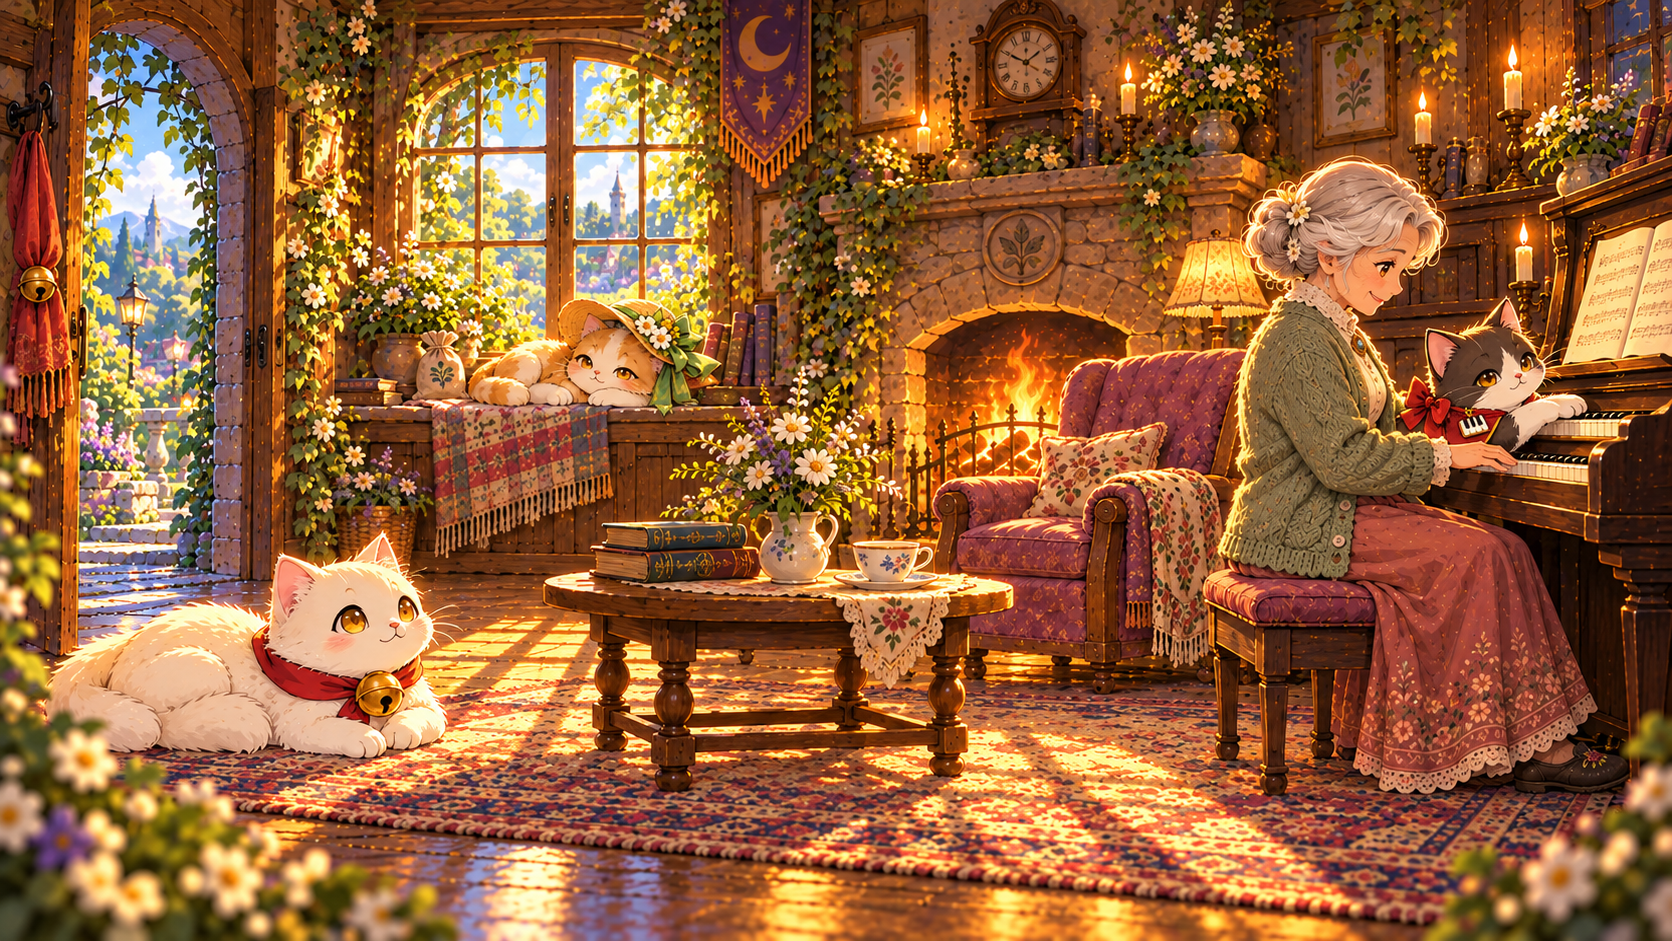
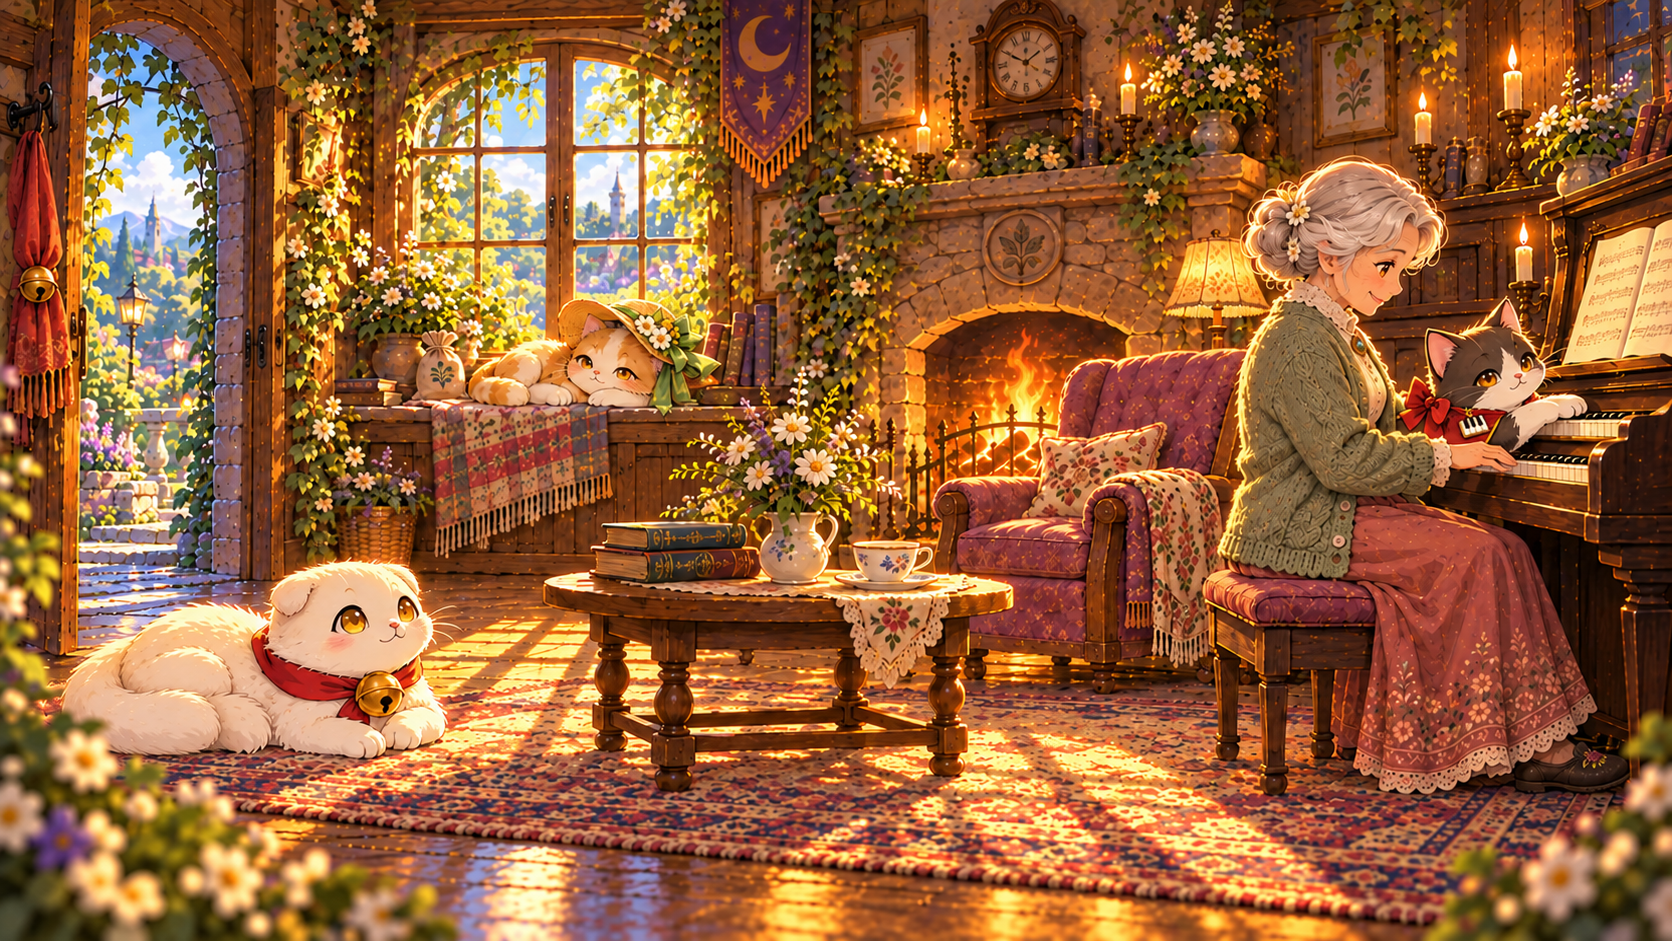
Correct Bosong folded ears and single tail anatomy

Changed region(s): [[0.0, 0.0, 0.9641, 0.9245], [0.8397, 0.0308, 1.0, 0.5239], [0.9641, 0.3082, 0.9952, 0.339]]

diff --git a/kkamang/ui/illustration.py b/kkamang/ui/illustration.py
@@ -82,7 +82,7 @@ def cat_frame(size=100, direction='down', phase=0, mood='idle', scarf='default',
     return sprite_frame(int(size), direction, is_walking, index)
 
 @lru_cache(maxsize=2048)
-def _resident_cat_frame(size=100, direction='down', phase=0, mood='idle', scarf='default', palette=None, *, walking=None):
+def _resident_cat_frame(size=100, direction='down', phase=0, mood='idle', scarf='default', palette=None, *, walking=None, folded_ears=False):
     # Living residents keep their coats independently of Kkamang's PNG atlas.
     fur,light,belly,eye_color,rear = palette or (FUR,LIGHT,(88,79,95),GOLD,INK)
     s=pygame.Surface((160,180),pygame.SRCALPHA)
@@ -106,12 +106,19 @@ def _resident_cat_frame(size=100, direction='down', phase=0, mood='idle', scarf=
     else:offset=0
     # Ears and head, same proportions across portraits and field sprites.
     hx=offset; hy=-bob
-    pygame.draw.polygon(s,INK,[(29+hx,63+hy),(28+hx,13+hy),(64+hx,34+hy)])
-    pygame.draw.polygon(s,INK,[(94+hx,34+hy),(133+hx,13+hy),(130+hx,66+hy)])
-    pygame.draw.polygon(s,ROSE,[(36+hx,43+hy),(36+hx,24+hy),(56+hx,37+hy)])
-    pygame.draw.polygon(s,ROSE,[(104+hx,37+hy),(125+hx,24+hy),(122+hx,48+hy)])
+    if not folded_ears:
+        pygame.draw.polygon(s,INK,[(29+hx,63+hy),(28+hx,13+hy),(64+hx,34+hy)])
+        pygame.draw.polygon(s,INK,[(94+hx,34+hy),(133+hx,13+hy),(130+hx,66+hy)])
+        pygame.draw.polygon(s,ROSE,[(36+hx,43+hy),(36+hx,24+hy),(56+hx,37+hy)])
+        pygame.draw.polygon(s,ROSE,[(104+hx,37+hy),(125+hx,24+hy),(122+hx,48+hy)])
     pygame.draw.ellipse(s,INK,(21+hx,29+hy,118,86));pygame.draw.ellipse(s,fur,(25+hx,31+hy,110,79))
     pygame.draw.arc(s,light,(39+hx,35+hy,79,55),.3,2.9,3)
+    if folded_ears:
+        # Bosong's two soft ear flaps lie forward over the crown.
+        for x in (26,99):
+            pygame.draw.ellipse(s,INK,(x+hx,32+hy,36,29))
+            pygame.draw.ellipse(s,fur,(x+3+hx,33+hy,30,25))
+            pygame.draw.arc(s,light,(x+7+hx,36+hy,23,18),math.pi,math.tau,2)
     if direction!='up':
         eyes=[(56+hx,70+hy),(103+hx,70+hy)]
         if direction=='left':eyes=[(43+hx,70+hy),(83+hx,70+hy)]
@@ -165,7 +172,7 @@ def resident_cat(surface, center, size=80, time=0., variant=0):
         ((161,153,184),(193,182,210),(222,208,222),(124,104,160),(122,113,145)),
     ]
     scarf=('peach','default','lavender')[variant]
-    im=_resident_cat_frame(160,'down',int(time*3)%8,'happy',scarf,palettes[variant]).copy()
+    im=_resident_cat_frame(160,'down',int(time*3)%8,'happy',scarf,palettes[variant],folded_ears=variant==0).copy()
     d=pygame.draw
     if variant==0:
         # Bosong's soft white tufts and peach scarf.

diff --git a/docs/VALIDATION.md b/docs/VALIDATION.md
@@ -1,5 +1,18 @@
 # v0.2 실제 검증 결과
 
+## 2026-10-19 · 귀·꼬리 원화 v3 / main c89d8d7 통합 결과
+
+최신 `main`의 `c89d8d7`에 보송 귀·꼬리 정밀 편집 원화 v3를 통합했습니다. 로컬 전체 자동 검사 **453개와 하위 사례 137개**를 **26.25초**에 통과했으며, 최신 참조 경로 재생 **36/36**, 레벨 해시 **12/12**, JSON 스키마 **12/12**도 통과했습니다. 아래 450개·`ac043a6` 결과와 이전 검증은 각 시점의 역사 기록으로 보존합니다.
+
+- **정밀 편집과 원본 보존:** 내장 이미지 생성 도구로 세 그림을 국소 편집했습니다. `assets/art/memories/generation_prompts-anatomy-v3.json`에 도구·대상·제약·그림별 프롬프트를 기록했습니다. 생성 도구가 반환한 PNG와 최종 `memory_01.png`~`memory_03.png` 자산의 SHA-256이 모두 일치합니다.
+- **보송 귀와 꼬리의 독립 시각 검토:** 세 그림에서 보송의 귀 전체가 머리 앞쪽으로 낮게 접히는지 확인했습니다. 첫 그림은 중복 꼬리를 없애 한 가닥으로, 두 번째는 꼬리와 뒷발을 구분하도록 교정했습니다. 세 번째는 각 고양이의 기존 꼬리 한 가닥씩을 유지했습니다. 이파리·도레의 귀와 캐릭터 식별 장식은 보존했습니다.
+- **같은 구도와 공개 정보 순서:** 원화의 인물·소품 배치와 기존 마스크를 유지한 상태로 0/4~4/4의 누적 공개 화면 15개를 검증했습니다. 이전 공개 픽셀·불투명 가림막·마지막 얼굴과 유령화·상부 온기 이탈의 정보 순서를 확인했습니다. 과거에 까망이를 넣지 않고 진엔딩 뒤에도 폭풍 원본을 유지합니다.
+- **현재 장면과 PNG API:** `resident_cat`의 흰색 보송인 `variant=0`만 접힌 귀로 맞췄습니다. 다른 주민과 기본 PNG 고양이·유령 API를 보존했으며, 저장·기억 영역·엔딩 조건은 원화 교정으로 변경하지 않았습니다.
+- **최종 앱 화면과 실행:** 실제 `GameApp`의 800×450 앨범·기억 세 장·해방·진엔딩·7번 방·로비를 확인했습니다. 홈 ESC의 저장 후 타이틀 복귀를 앱 명령으로 검사하고 5프레임 CLI 실행도 통과했습니다. 첫째·셋째 앨범과 진엔딩 이미지를 직접 확인했으며, 별도 앨범 산출물은 대화 작업공간의 `outputs/memory-anatomy-v3/album_1.png`~`album_3.png`에 남겼습니다.
+- **최신 main 판정과 화면 동작:** 자석은 최신 규칙대로 +1 온기만 끌어오며 +3 온기를 원격 수집하지 않습니다. 로비의 앉은 고양이 PNG와 ESC 저장 후 타이틀 복귀 동작을 유지했습니다. 최신 참조 행동열·추적 상태·메타데이터를 보존하고 현재 레벨 해시만 연결했습니다. 스토리 표시 필드 이외 레벨 맵·좌표·판정은 해당 `main`과 동일합니다.
+
+원격 CI는 마지막 커밋의 실행 결과에서 별도로 확인합니다. 실제 사람 플레이·실기기 확인·실행 파일 빌드·오디오 청취는 실시하지 않았습니다.
+
 ## 2026-10-19 · 스타일 v2 / main ac043a6 통합 결과
 
 최신 `main`의 `ac043a6`에 원화 스타일 v2와 스토리를 통합한 뒤 로컬 전체 자동 검사 **450개와 하위 사례 137개**를 **26.49초**에 통과했습니다. 참조 경로 재생 **36/36**, 레벨 해시 **12/12**, JSON 스키마 **12/12**도 통과했습니다. 아래 `d1a91f2` 기준 434개 검사와 이전 결과는 각 시점의 역사 기록이며 이번 최종 결과와 구분합니다.

diff --git a/docs/CHANGELOG.md b/docs/CHANGELOG.md
@@ -1,5 +1,15 @@
 # 복구 점검과 v0.2 변경 기록
 
+## 2026-10-19 · 보송 귀·꼬리 원화 v3와 main c89d8d7 통합
+
+- 내장 이미지 생성 도구의 정밀 편집으로 기억 원화 세 장의 보송을 교정. 사용 도구·대상·그림별 프롬프트는 `assets/art/memories/generation_prompts-anatomy-v3.json`에 보존하고 최종 `memory_01.png`~`memory_03.png`는 도구가 반환한 PNG 그대로 적용.
+- 보송의 양쪽 귀를 끝만 굽은 삼각형이 아니라 머리 앞쪽으로 낮게 접힌 전체 귀 형태로 통일. 첫 그림의 중복 꼬리를 제거하고, 두 번째 그림은 한 가닥 꼬리와 뒷발이 구분되도록 정리. 세 번째 그림은 세 고양이의 기존 꼬리를 각각 한 가닥씩 유지하며 보송 귀만 맞춤.
+- 인물·소품·원화 구도와 기존 공개 마스크를 유지. 과거에 까망이를 추가하지 않고 폭풍의 밤·같은 몸의 유령화·상부 온기 이탈을 보존. 현재 장면의 `resident_cat`도 흰색 보송인 `variant=0`만 접힌 귀로 맞추고 다른 캐릭터와 기본 PNG API는 유지.
+- 최신 `main`의 `c89d8d7`에 통합. 자석이 +1 온기만 끌어오는 최신 판정, 로비의 앉은 고양이 PNG, ESC 저장 후 타이틀 복귀 동작과 최신 참조 경로를 보존. 레벨의 스토리 표시 필드 이외 맵·좌표·규칙도 해당 `main`과 동일하게 유지.
+- 로컬 전체 자동 검사 **453개와 하위 사례 137개** 통과, 소요 **26.25초**. 최신 경로 재생 **36/36**, 레벨 해시 **12/12**, JSON 스키마 **12/12** 통과. 생성 PNG와 배포 자산의 해시 일치, 누적 공개 화면 15개와 귀·꼬리의 독립 시각 검토도 확인. 아래 450개·`ac043a6` 기록은 이전 통합 이력으로 보존.
+- 실제 앱의 800×450 앨범·기억 세 장·해방·진엔딩·7번 방·로비를 확인하고, 홈 ESC의 저장 후 타이틀 복귀를 앱 명령으로 검사. 5프레임 CLI 실행도 통과. 첫째·셋째 앨범과 진엔딩 이미지를 직접 확인하고 검토 산출물을 대화 작업공간의 `outputs/memory-anatomy-v3/`에 보존.
+- 원격 CI는 마지막 커밋의 실행 결과에서 별도로 확인. 실제 사람 플레이·실기기 확인·실행 파일 빌드·오디오 청취는 미실시.
+
 ## 2026-10-19 · 원화 스타일 v2와 최신 main 통합
 
 - 최신 `main`의 `ac043a6`를 기준으로 스토리와 원화를 다시 통합. PNG 고양이·유령·맵·아이템 API, 자유 이동, 자동 수집, 시간제 효과와 게임 규칙을 유지. 모든 레벨은 물건 이름·그림 종류·기능 표시를 제외한 맵·좌표·시간·판정을 해당 `main`과 동일하게 보존.

diff --git a/assets/art/memories/README.md b/assets/art/memories/README.md
@@ -1,14 +1,16 @@
 # 고정 기억 원화
 
-세 이미지는 내장 `image_gen`으로 제작한 과거의 완성 원본입니다. 현재 화풍의 생성 프롬프트는 `generation_prompts-style-v2.json`에 있으며, 이전 제작 기록은 `generation_prompts.json`에 보존합니다. 까망이가 오기 전의 장면이므로 세 이미지에 까망이는 등장하지 않습니다.
+세 이미지는 내장 `image_gen`으로 제작한 과거의 완성 원본입니다. 현재 귀·꼬리 수정 프롬프트는 `generation_prompts-anatomy-v3.json`에 있으며, 화풍 제작 기록은 `generation_prompts-style-v2.json`, 최초 기록은 `generation_prompts.json`에 보존합니다. 까망이가 오기 전의 장면이므로 세 이미지에 까망이는 등장하지 않습니다.
 
-현재 원화는 프로젝트의 참고 이미지와 같은 큰 호박색 눈·둥근 체형·선명한 윤곽선·황금빛과 보랏빛의 판타지 저택 화풍을 사용합니다. 보송의 흰 털과 빨간 방울 스카프, 이파리의 주황·흰 털과 꽃 달린 모자, 도레의 짙은 회색·흰 털과 건반 장식 리본을 세 장에서 이어 갑니다.
+현재 원화는 프로젝트의 참고 이미지와 같은 큰 호박색 눈·둥근 체형·선명한 윤곽선·황금빛과 보랏빛의 판타지 저택 화풍을 사용합니다. 보송의 흰 털·머리 앞으로 낮게 접힌 귀·빨간 방울 스카프, 이파리의 주황·흰 털과 꽃 달린 모자, 도레의 짙은 회색·흰 털과 건반 장식 리본을 세 장에서 이어 갑니다.
 
 | 파일 | 장면 | 공개하는 방 |
 |---|---|---|
 | `memory_01.png` | 비를 피해 온 어린 보송을 기다리는 할머니 | 1~4 |
 | `memory_02.png` | 세 고양이가 각자 편히 지내는 공용 거실의 오후 | 5~8 |
 | `memory_03.png` | 폭풍 속에서 함께 온기를 잃는 세 고양이 | 9~12 |
+
+모든 고양이는 한 몸에 꼬리 한 가닥입니다. 보송의 귀는 서 있는 삼각귀나 귀 끝만 굽은 형태가 아니라, 머리에 가깝게 앞으로 접힌 귀입니다.
 
 원본 PNG의 위치·표정·조명은 진행도나 엔딩에 따라 변경하지 않습니다. 특히 마지막 그림은 진엔딩 뒤에도 폭풍의 밤입니다. 현재의 해방 장면은 게임의 별도 연출입니다.
 

diff --git a/README.md b/README.md
@@ -79,7 +79,7 @@ python main.py
 
 최신 `main`의 자유 이동·자동 온기 수집·추격 유령·시간제 자석/무적 효과·별점·호감도는 유지합니다. 자유 이동 관측은 623차원, 기존 칸 단위 관측은 620차원입니다.
 
-기억 원화는 프로젝트의 큰 호박색 눈·둥근 캐릭터·선명한 윤곽선·황금빛 판타지 저택 화풍에 맞춰 제작했습니다. 세 친구의 방울·모자·건반 리본도 같은 디자인을 사용합니다. 현재 생성 프롬프트는 `assets/art/memories/generation_prompts-style-v2.json`에 있습니다.
+기억 원화는 프로젝트의 큰 호박색 눈·둥근 캐릭터·선명한 윤곽선·황금빛 판타지 저택 화풍에 맞춰 제작했습니다. 세 친구의 방울·모자·건반 리본도 같은 디자인을 사용합니다. 보송은 머리 앞으로 낮게 접힌 귀를 사용하고, 모든 고양이는 꼬리 한 가닥으로 표현합니다. 현재 국소 수정 프롬프트는 `assets/art/memories/generation_prompts-anatomy-v3.json`, 화풍 제작 기록은 `generation_prompts-style-v2.json`에 있습니다.
 
 여유 모드는 최신 `main`의 연습 전용 규칙을 따릅니다. 연습 결과는 완료·기억 그림·온기 회수·별·호감도·엔딩을 갱신하지 않습니다. 1·2번 방의 배치, 정밀 시간 표시, 새 랜턴·조작 안내도 최신 `main`을 유지합니다.
 
